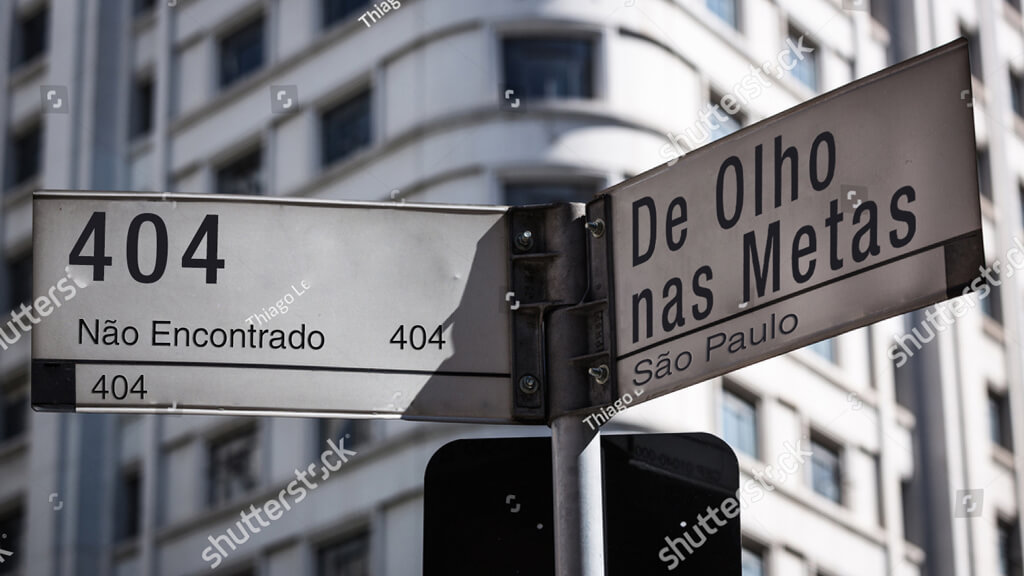
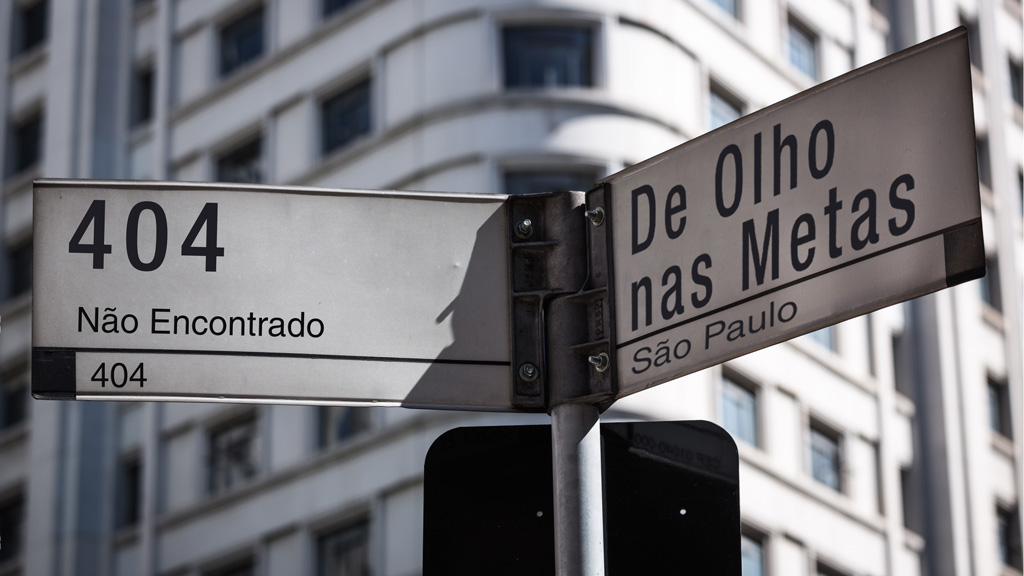
Update 404 images
DONM-256 #time 2h 46m

diff --git a/_source/stylesheets/pages/_404.scss b/_source/stylesheets/pages/_404.scss
@@ -22,7 +22,7 @@
 }
 
 .not-found-page article {
-	@include aspect-ratio(3 x 1.5);
+	@include aspect-ratio(16 x 9);
 
 	max-width: none;
 
